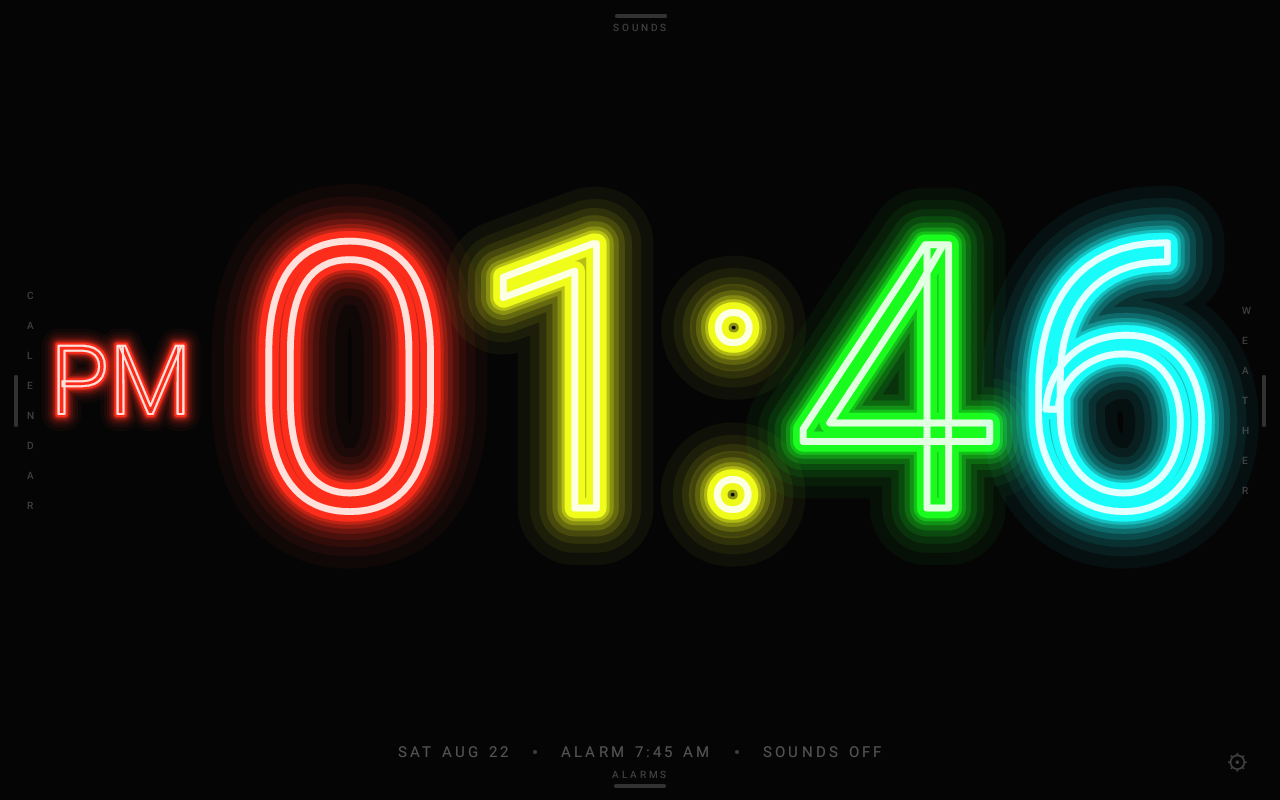
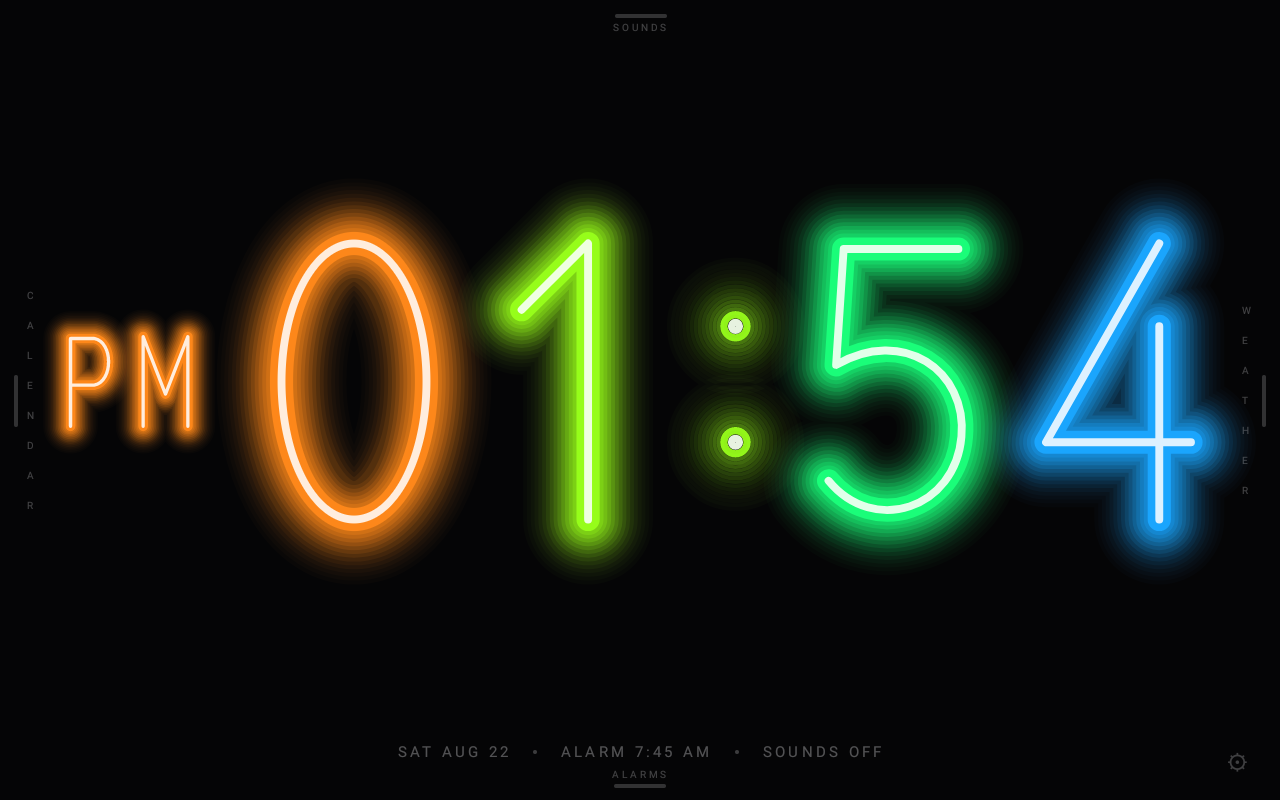
Draw the neon face from monoline paths instead of stroked text
Stroking a font glyph traces its outline, so every stem came out as two
parallel tubes with a hollow gap between them. Real neon is one bent tube
per stroke. The numerals and the meridiem letters are now authored as
centre-line paths on a unit box, so the stroke width is the tube itself.

The shapes are deliberately geometric, circles and straight runs, which
is what a bar-sign face looks like.

The halo is a generated ramp of fourteen faint layers rather than a
handful of hand-picked passes. Discrete steps read as concentric rings
around a thin tube, and the thinner the tube the more they show.

Paths are also far cheaper than stroked text: 250ms a frame with blur,
113ms with stroked text, 93ms here, with the battery holding 20.0C across
ninety seconds of continuous rainbow cycling. With a solid colour the
face only redraws when the minute turns.

Changed region(s): [[0.0312, 0.25, 0.9688, 0.7188]]

diff --git a/app/src/main/java/com/kindcode/alarmhub/ui/NeonClock.kt b/app/src/main/java/com/kindcode/alarmhub/ui/NeonClock.kt
@@ -1,101 +1,66 @@
 package com.kindcode.alarmhub.ui
 
-import androidx.compose.foundation.layout.Box
-import androidx.compose.foundation.layout.padding
-import androidx.compose.material3.Text
+import androidx.compose.foundation.Canvas
+import androidx.compose.foundation.layout.size
 import androidx.compose.runtime.Composable
-import androidx.compose.ui.Alignment
 import androidx.compose.ui.Modifier
 import androidx.compose.ui.graphics.Color
 import androidx.compose.ui.graphics.StrokeCap
 import androidx.compose.ui.graphics.StrokeJoin
 import androidx.compose.ui.graphics.drawscope.Stroke
 import androidx.compose.ui.graphics.lerp
-import androidx.compose.ui.text.PlatformTextStyle
-import androidx.compose.ui.text.TextStyle
-import androidx.compose.ui.text.font.FontFamily
-import androidx.compose.ui.text.font.FontWeight
-import androidx.compose.ui.text.style.LineHeightStyle
-import androidx.compose.ui.unit.TextUnit
-import androidx.compose.ui.unit.dp
+import androidx.compose.ui.unit.Dp
 
 /**
- * A neon tube character: a hollow stroked glyph with the light bleeding out of
- * it.
+ * One neon character: a monoline centre-line path stroked several times over.
  *
- * Real neon is a bright core inside a wide, dim halo, so this is drawn as
- * several passes of the same glyph rather than one. Widest and dimmest first,
- * then tighter and brighter, finishing with a nearly white core, which is what
- * a lit tube actually looks like: the gas glows coloured, the filament reads
- * white.
+ * Widest and faintest first, tightening and brightening to a nearly white core,
+ * which is what a lit tube looks like: the gas glows coloured and the filament
+ * reads white. Round caps and joins are what make a stroke read as bent glass
+ * rather than an outline.
  *
- * Blur is only available from API 31. Below that the wide passes still draw,
- * just with hard edges, which reads as a chunky outline rather than broken.
+ * The falloff between passes is deliberately gentle. Large alpha steps show up
+ * as concentric rings instead of a glow, and the step into the core shows most.
+ *
+ * Stacked strokes rather than Modifier.blur: blur looked marginally softer and
+ * cost 250ms a frame on this GPU, which for a clock redrawing every second in
+ * rainbow mode is a quarter of the device's time, all night.
  */
 @Composable
-private fun NeonGlyph(
-    char: String,
+fun NeonChar(
+    char: Char,
     color: Color,
-    size: TextUnit,
-    strokeCore: Float,
+    width: Dp,
+    height: Dp,
+    tube: Dp,
     modifier: Modifier = Modifier,
 ) {
-    @Composable
-    fun pass(width: Float, alpha: Float, tint: Color) {
-        Text(
-            text = char,
-            style = TextStyle(
+    Canvas(modifier.size(width, height)) {
+        val core = tube.toPx()
+        val path = NeonGlyphs.path(char, size, core * 0.5f + core * 0.6f)
+        val white = lerp(color, Color.White, 0.88f)
+
+        fun pass(scale: Float, alpha: Float, tint: Color) {
+            drawPath(
+                path = path,
                 color = tint.copy(alpha = alpha),
-                fontSize = size,
-                lineHeight = size,
-                fontFamily = FontFamily.SansSerif,
-                fontWeight = FontWeight.Light,
-                drawStyle = Stroke(
-                    width = width,
+                style = Stroke(
+                    width = core * scale,
                     cap = StrokeCap.Round,
                     join = StrokeJoin.Round,
                 ),
-                platformStyle = PlatformTextStyle(includeFontPadding = false),
-                lineHeightStyle = LineHeightStyle(
-                    alignment = LineHeightStyle.Alignment.Center,
-                    trim = LineHeightStyle.Trim.Both,
-                ),
-            ),
-        )
-    }
+            )
+        }
 
-    Box(modifier, contentAlignment = Alignment.Center) {
-        // Widest and faintest first, tightening and brightening to a nearly
-        // white core, which is what a lit tube looks like: the gas glows
-        // coloured and the filament reads white.
-        //
-        // Built from stacked strokes rather than Modifier.blur. Blur looked
-        // marginally softer and cost 250ms a frame on this GPU, which for a
-        // clock that redraws every second is a quarter of the device's time,
-        // all night. Strokes cost almost nothing.
-        // The falloff is smooth on purpose. Big jumps between passes show up
-        // as concentric rings rather than a glow, and the jump into the core is
-        // the one that shows most.
-        pass(strokeCore * 5.6f, 0.045f, color)
-        pass(strokeCore * 4.4f, 0.060f, color)
-        pass(strokeCore * 3.5f, 0.085f, color)
-        pass(strokeCore * 2.8f, 0.120f, color)
-        pass(strokeCore * 2.2f, 0.175f, color)
-        pass(strokeCore * 1.7f, 0.260f, color)
-        pass(strokeCore * 1.3f, 0.420f, color)
-        pass(strokeCore * 1.0f, 0.950f, color)
-        pass(strokeCore * 0.34f, 0.950f, lerp(color, Color.White, 0.88f))
+        // A generated ramp rather than a handful of hand-picked passes. Discrete
+        // steps read as concentric rings around a thin tube, and the thinner the
+        // tube the more they show, so the halo is built from many faint layers.
+        val halo = 14
+        for (i in halo downTo 1) {
+            val f = i / halo.toFloat()
+            pass(1f + f * 4.6f, 0.30f * (1f - f) * (1f - f) + 0.018f, color)
+        }
+        pass(1.0f, 0.95f, color)
+        pass(0.34f, 0.95f, white)
     }
-}
-
-/** One character of the neon clock. */
-@Composable
-fun NeonChar(
-    char: String,
-    color: Color,
-    size: TextUnit,
-    strokeCore: Float,
-    modifier: Modifier = Modifier,
-) {
-    NeonGlyph(char, color, size, strokeCore, modifier)
 }

diff --git a/app/src/main/java/com/kindcode/alarmhub/ui/NeonGlyphs.kt b/app/src/main/java/com/kindcode/alarmhub/ui/NeonGlyphs.kt
@@ -1,0 +1,129 @@
+package com.kindcode.alarmhub.ui
+
+import androidx.compose.ui.geometry.Rect
+import androidx.compose.ui.geometry.Size
+import androidx.compose.ui.graphics.Path
+
+/**
+ * Monoline geometric numerals, drawn as centre-lines rather than letter shapes.
+ *
+ * This exists because stroking a font glyph traces its outline, so every stem
+ * comes out as two parallel tubes with a hollow gap between them. Real neon is
+ * one bent tube per stroke, so the path here is the tube's centre-line and the
+ * stroke width is the tube.
+ *
+ * Everything is authored on a unit box and scaled at draw time. The shapes are
+ * deliberately geometric, circles and straight runs, which is what a bar-sign
+ * face looks like.
+ */
+object NeonGlyphs {
+
+    fun path(char: Char, size: Size, inset: Float): Path {
+        val p = Path()
+        val l = inset
+        val t = inset
+        val r = size.width - inset
+        val b = size.height - inset
+        val w = r - l
+        val h = b - t
+        fun x(u: Float) = l + u * w
+        fun y(v: Float) = t + v * h
+        fun rect(x0: Float, y0: Float, x1: Float, y1: Float) =
+            Rect(x(x0), y(y0), x(x1), y(y1))
+
+        when (char) {
+            '0' -> p.addOval(rect(0.02f, 0f, 0.98f, 1f))
+
+            '1' -> {
+                p.moveTo(x(0.14f), y(0.24f))
+                p.lineTo(x(0.58f), y(0f))
+                p.lineTo(x(0.58f), y(1f))
+            }
+
+            '2' -> {
+                // Shoulder over the top, a diagonal down, then the foot.
+                p.arcTo(rect(0.04f, 0f, 0.96f, 0.54f), 180f, 190f, true)
+                p.cubicTo(x(1.00f), y(0.52f), x(0.62f), y(0.72f), x(0.04f), y(1f))
+                p.lineTo(x(0.98f), y(1f))
+            }
+
+            '3' -> {
+                p.arcTo(rect(0.06f, 0f, 0.94f, 0.53f), 175f, 245f, true)
+                p.arcTo(rect(0.06f, 0.47f, 0.94f, 1f), 290f, 245f, false)
+            }
+
+            '4' -> {
+                p.moveTo(x(0.78f), y(0f))
+                p.lineTo(x(0.03f), y(0.72f))
+                p.lineTo(x(0.99f), y(0.72f))
+                p.moveTo(x(0.78f), y(0.30f))
+                p.lineTo(x(0.78f), y(1f))
+            }
+
+            '5' -> {
+                p.moveTo(x(0.92f), y(0.02f))
+                p.lineTo(x(0.16f), y(0.02f))
+                p.lineTo(x(0.11f), y(0.44f))
+                p.cubicTo(x(0.55f), y(0.30f), x(0.98f), y(0.46f), x(0.94f), y(0.70f))
+                p.cubicTo(x(0.90f), y(0.96f), x(0.36f), y(1.06f), x(0.06f), y(0.86f))
+            }
+
+            '6' -> {
+                p.moveTo(x(0.86f), y(0.06f))
+                p.cubicTo(x(0.30f), y(0.10f), x(0.04f), y(0.40f), x(0.05f), y(0.70f))
+                p.addOval(rect(0.05f, 0.42f, 0.95f, 1f))
+            }
+
+            '7' -> {
+                p.moveTo(x(0.04f), y(0.02f))
+                p.lineTo(x(0.96f), y(0.02f))
+                p.lineTo(x(0.34f), y(1f))
+            }
+
+            '8' -> {
+                p.addOval(rect(0.11f, 0f, 0.89f, 0.47f))
+                p.addOval(rect(0.03f, 0.47f, 0.97f, 1f))
+            }
+
+            '9' -> {
+                p.addOval(rect(0.05f, 0f, 0.95f, 0.58f))
+                p.moveTo(x(0.95f), y(0.30f))
+                p.cubicTo(x(0.96f), y(0.60f), x(0.70f), y(0.90f), x(0.14f), y(0.94f))
+            }
+
+            'A' -> {
+                p.moveTo(x(0.02f), y(1f))
+                p.lineTo(x(0.5f), y(0f))
+                p.lineTo(x(0.98f), y(1f))
+                p.moveTo(x(0.18f), y(0.66f))
+                p.lineTo(x(0.82f), y(0.66f))
+            }
+
+            'M' -> {
+                p.moveTo(x(0.03f), y(1f))
+                p.lineTo(x(0.03f), y(0f))
+                p.lineTo(x(0.5f), y(0.64f))
+                p.lineTo(x(0.97f), y(0f))
+                p.lineTo(x(0.97f), y(1f))
+            }
+
+            'P' -> {
+                p.moveTo(x(0.08f), y(1f))
+                p.lineTo(x(0.08f), y(0.02f))
+                p.lineTo(x(0.58f), y(0.02f))
+                p.cubicTo(x(0.98f), y(0.06f), x(0.98f), y(0.50f), x(0.58f), y(0.54f))
+                p.lineTo(x(0.08f), y(0.54f))
+            }
+
+            ':' -> {
+                val rr = w * 0.14f
+                p.addOval(Rect(x(0.5f) - rr, y(0.30f) - rr, x(0.5f) + rr, y(0.30f) + rr))
+                p.addOval(Rect(x(0.5f) - rr, y(0.72f) - rr, x(0.5f) + rr, y(0.72f) + rr))
+            }
+        }
+        return p
+    }
+
+    /** Relative advance for each character, in units of glyph width. */
+    fun advance(char: Char): Float = if (char == ':') 0.38f else 1f
+}

diff --git a/app/src/main/java/com/kindcode/alarmhub/ui/ClockPane.kt b/app/src/main/java/com/kindcode/alarmhub/ui/ClockPane.kt
@@ -269,21 +269,25 @@ private fun NeonFace(
 ) {
     BoxWithConstraints(Modifier.fillMaxSize(), contentAlignment = Alignment.Center) {
 
-        val chars = listOf(hh[0].toString(), hh[1].toString(), ":", mm[0].toString(), mm[1].toString())
+        val chars = listOf(hh[0], hh[1], ':', mm[0], mm[1])
+        val merChars = meridiem?.toCharArray()?.toList().orEmpty()
 
-        // Character advance is roughly 0.60em for digits and 0.30em for the
-        // colon, plus the meridiem block when there is one.
-        // Width is what binds here. A font's digits carry side bearings that
-        // drawn segments do not, so the advance and the padding are kept tight
-        // to bring this face up to the size of the other two.
-        val emUnits = 4 * 0.57f + 0.30f + 5 * 0.05f + (if (meridiem == null) 0f else 0.42f)
-        val fitWidth = (maxWidth.value * 0.94f) / emUnits
-        val fitHeight = maxHeight.value * 0.78f
-        val em = minOf(fitWidth, fitHeight)
+        // Width-bound, like the LED face. Advances come from the glyph set so
+        // the colon takes the narrow slot it deserves.
+        val gapUnits = 0.10f
+        val merUnits = if (merChars.isEmpty()) 0f else
+            merChars.sumOf { NeonGlyphs.advance(it).toDouble() }.toFloat() * 0.34f +
+                merChars.size * gapUnits * 0.34f + 0.34f
+        val bodyUnits = chars.sumOf { NeonGlyphs.advance(it).toDouble() }.toFloat() +
+            chars.size * gapUnits
+        val unitW = (maxWidth.value * 0.94f) / (bodyUnits + merUnits)
+        val unitH = maxHeight.value * 0.80f / 1.62f
+        val w = minOf(unitW, unitH)
 
-        val size = with(LocalDensity.current) { em.dp.toSp() }
-        val stroke = with(LocalDensity.current) { (em * 0.055f).dp.toPx() }
-        val gap = (em * 0.025f).dp
+        val glyphW = w.dp
+        val glyphH = (w * 1.62f).dp
+        val tube = (w * 0.115f).dp
+        val gap = (w * gapUnits * 0.5f).dp
 
         fun colourFor(index: Int): Color = when {
             !rainbow -> digitColor
@@ -296,24 +300,29 @@ private fun NeonFace(
         }
 
         Row(verticalAlignment = Alignment.CenterVertically) {
-            if (meridiem != null) {
-                NeonChar(
-                    char = meridiem,
-                    color = colourFor(0),
-                    size = with(LocalDensity.current) { (em * 0.26f).dp.toSp() },
-                    strokeCore = stroke * 0.30f,
-                    modifier = Modifier.padding(end = gap * 5),
-                )
+            if (merChars.isNotEmpty()) {
+                merChars.forEach { ch ->
+                    NeonChar(
+                        char = ch,
+                        color = colourFor(0),
+                        width = glyphW * 0.34f,
+                        height = glyphH * 0.34f,
+                        tube = tube * 0.42f,
+                        modifier = Modifier.padding(horizontal = gap * 0.34f),
+                    )
+                }
+                Spacer(Modifier.width(gap * 4))
             }
             chars.forEachIndexed { index, ch ->
-                // The colon is not a digit, so it does not take a step of its
-                // own on the colour wheel; it borrows the hour's.
+                // The colon is not a digit, so it borrows the hour's place on
+                // the colour wheel rather than taking a step of its own.
                 val step = if (index < 2) index else index - 1
                 NeonChar(
                     char = ch,
                     color = colourFor(step),
-                    size = size,
-                    strokeCore = stroke,
+                    width = glyphW * NeonGlyphs.advance(ch),
+                    height = glyphH,
+                    tube = tube,
                     modifier = Modifier.padding(horizontal = gap),
                 )
             }
